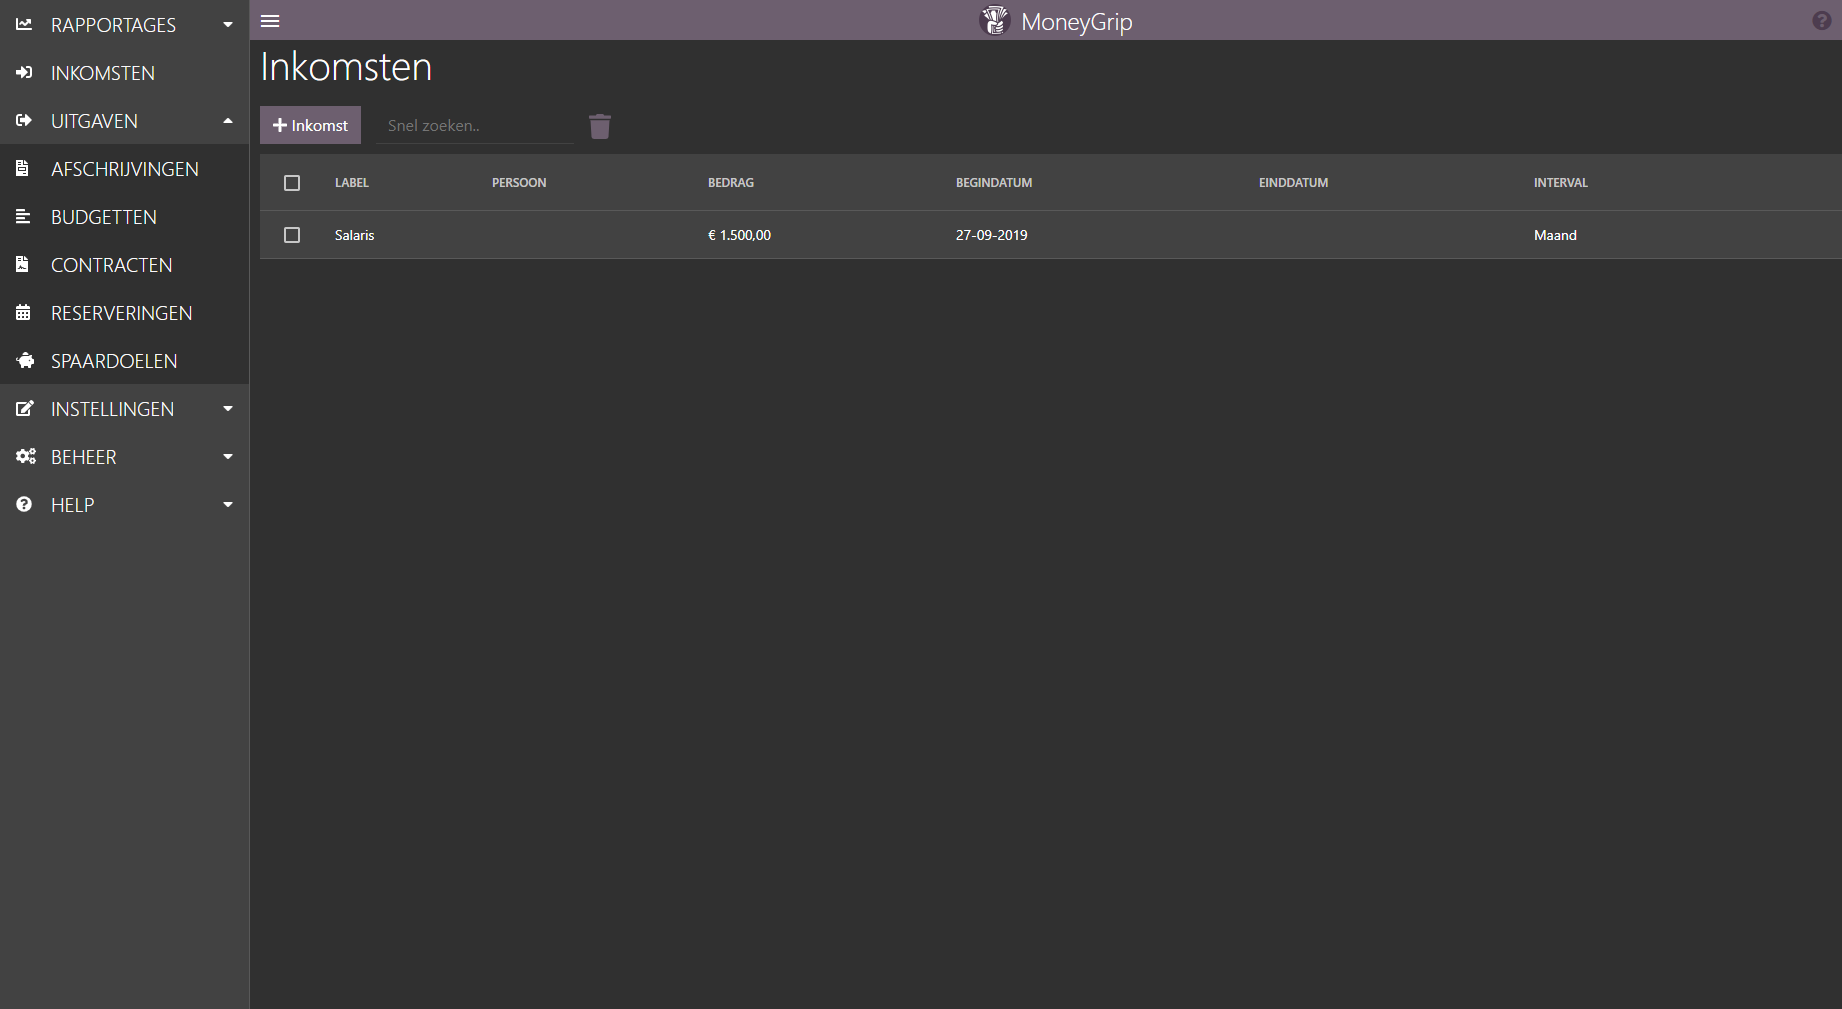
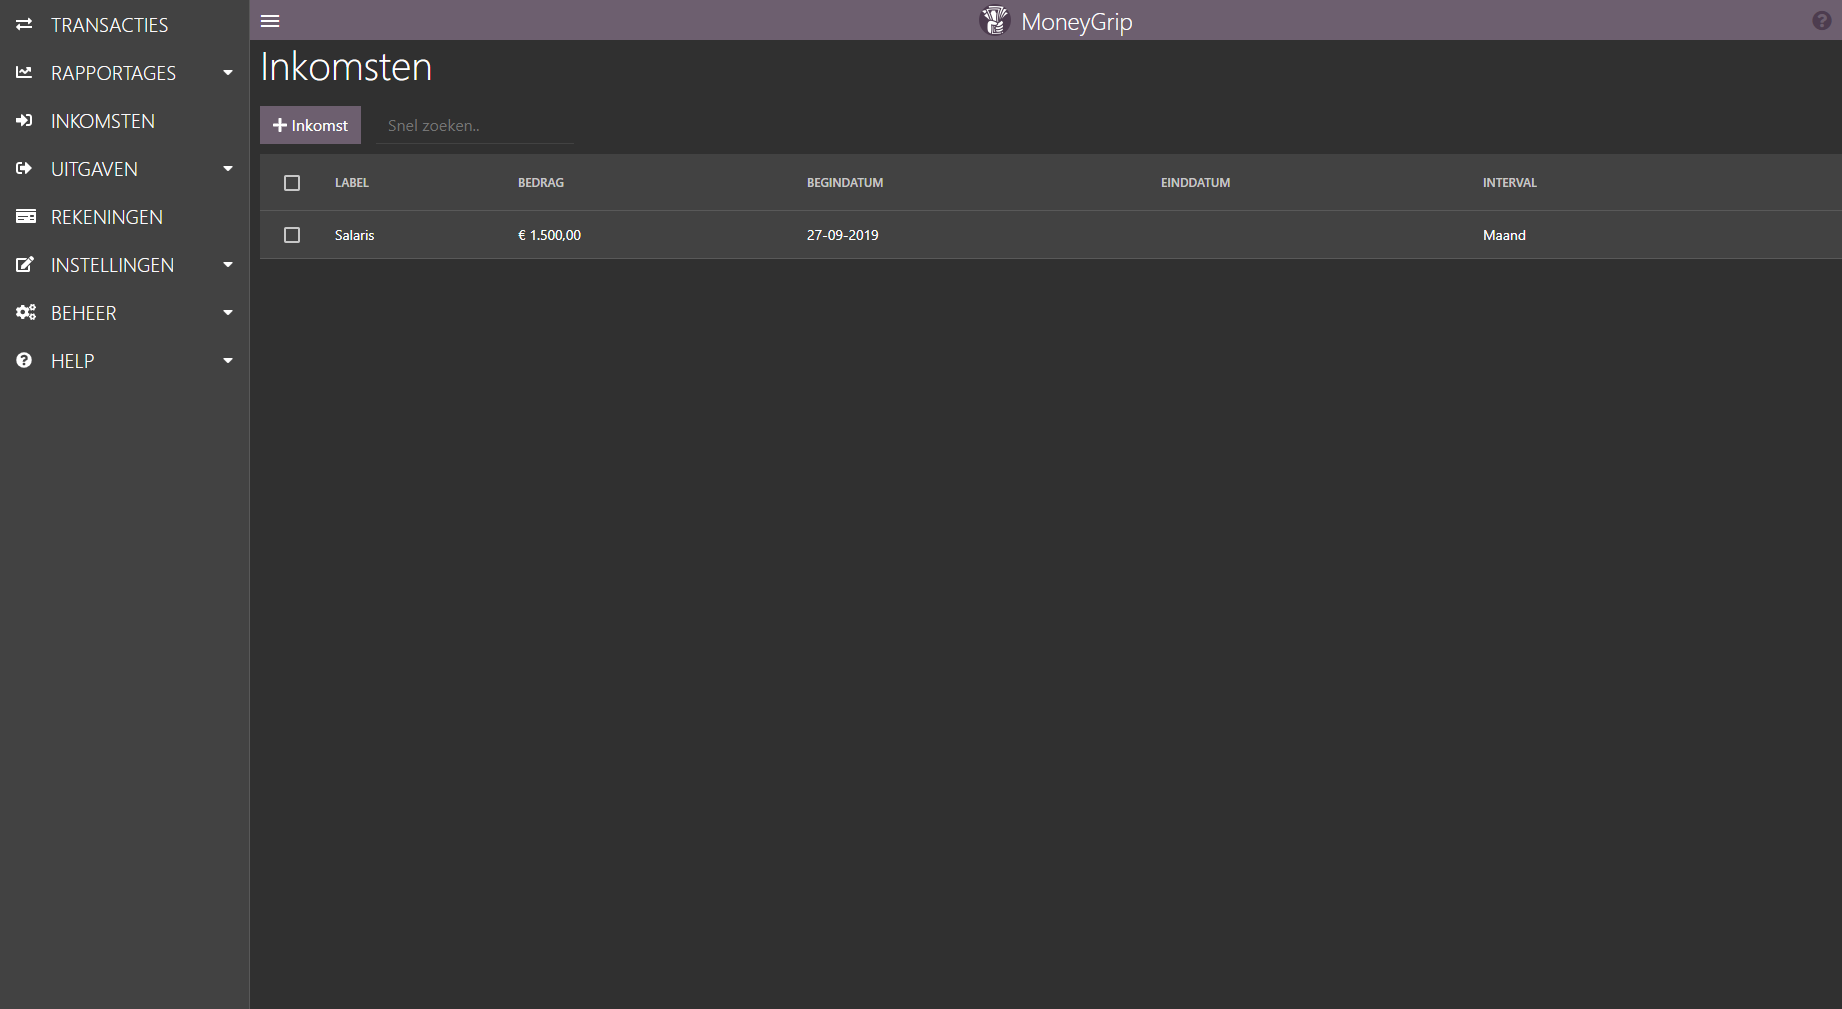
Readme + download link documentatie bijgewerkt

diff --git a/README.md b/README.md
@@ -16,26 +16,21 @@
 
 # Release notes
 ![version](https://img.shields.io/github/tag/wesmaster/moneygrip.svg?colorB=607D8B&label=version&style=flat)
-- #43 Begroting meer inzichtelijk maken
-- #50 Leningen pagina toevoegen
-- #135 Lening aanmaken/bewerken/verwijderen
-- #136 Lening model opzetten
-- #137 Begroting uitbreiden met leningen
-- #176 Label bijwerken ververst de labellijst niet
-- #178 Documentatie link naar download MoneyGrip aanpassen
-- #179 Duplicate lines verminderen in front-end
-
-# Roadmap
-
-Hoogtepunten volgende versie:
 - #48 Rekeningen pagina toevoegen
 - #54 Transacties pagina toevoegen
 - #138 Rekening model opzetten
 - #139 Rekening aanmaken/bewerken/verwijderen
 - #145 Transactie model opzetten
 
+# Roadmap
+
+Hoogtepunten volgende versie:
+- #56 Zoeken naar transactie
+- #58 Document aan transactie kunnen toevoegen
+- #110 Transactie aanmaken/wijzigen/verwijderen
+- #182 Spaardoel automatisch een rekening laten worden
+
 # MoneyGrip
-![Home](https://raw.github.com/wesmaster/moneygrip/develop/Screenshots/Home.png)
 ![Inkomsten](https://raw.github.com/wesmaster/moneygrip/develop/Screenshots/Inkomsten.png)
 ![Backup](https://raw.github.com/wesmaster/moneygrip/develop/Screenshots/Backup.png)
 ## Wat is het?

diff --git a/docs/installatie/moneygrip.rst b/docs/installatie/moneygrip.rst
@@ -1,7 +1,7 @@
 MoneyGrip
 ==================
 
-* Download `MoneyGrip <https://github.com/WesMaster/MoneyGrip/releases/download/v0.14.0/MoneyGrip.exe>`_
+* Download `MoneyGrip <https://github.com/WesMaster/MoneyGrip/releases/download/v0.15.0/MoneyGrip.exe>`_
 * Dubbelklik op het bestand om de installatie te starten
 * Volg de stappen in het scherm
 
